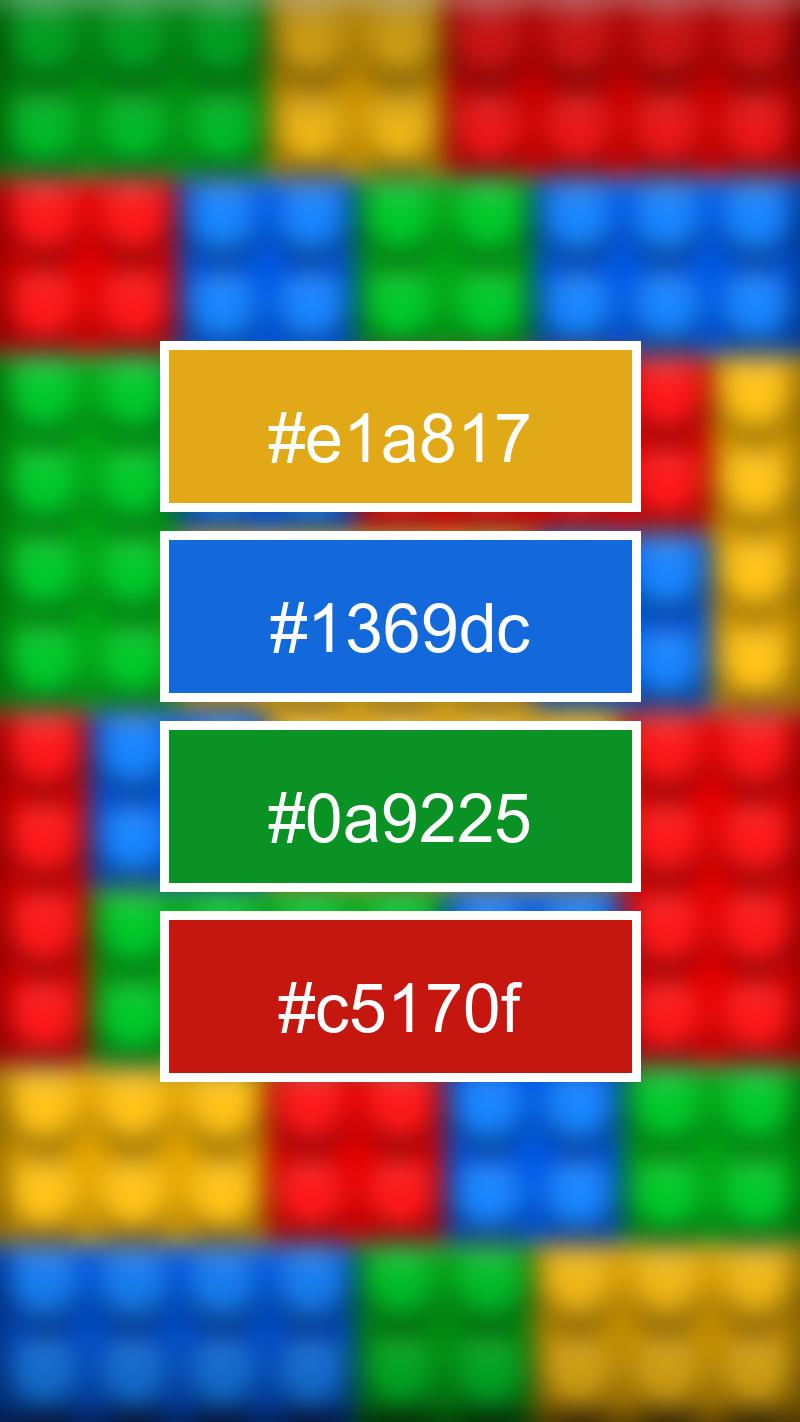
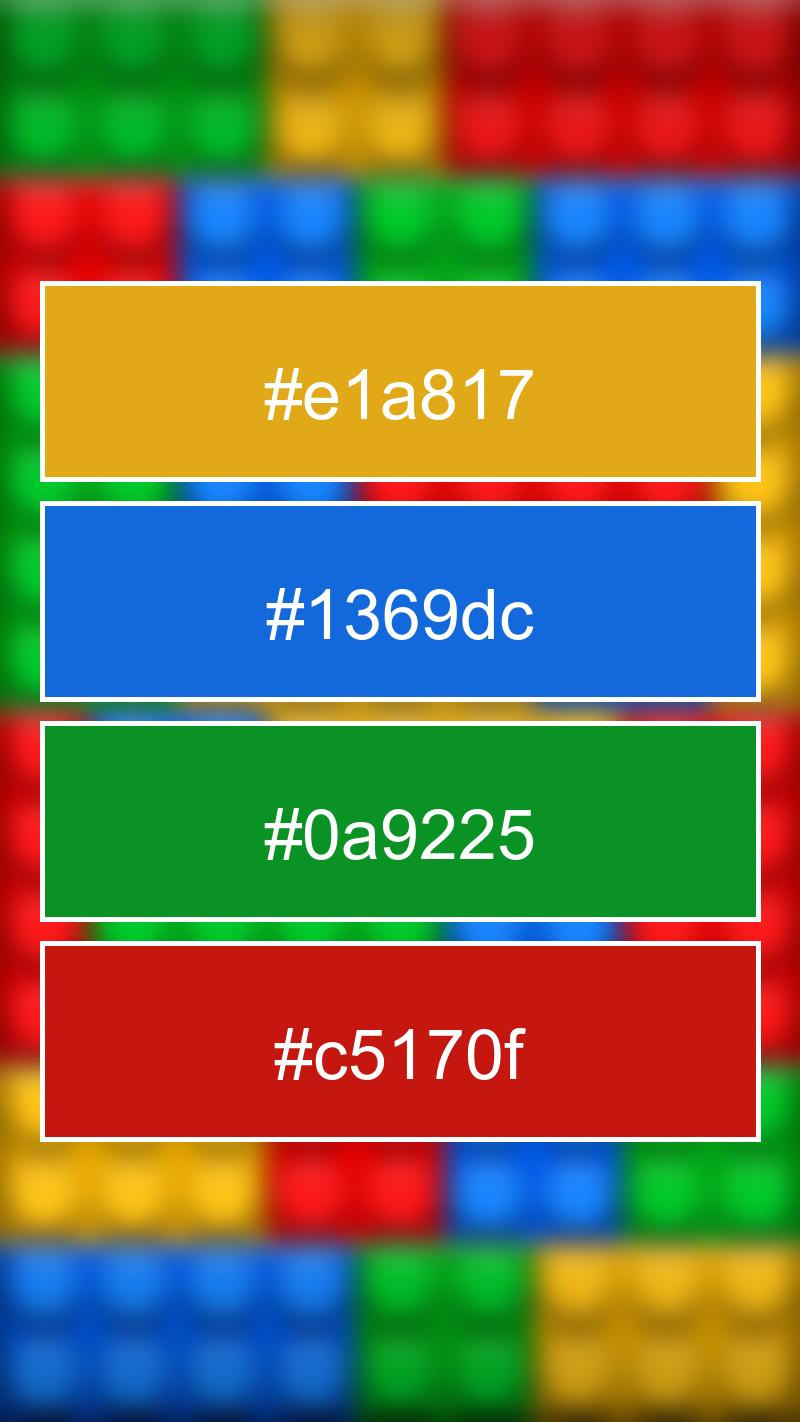
se modifican las dimensiones del recuadro de la paleta que se plasma en la imagen

diff --git a/analizador_paleta.py b/analizador_paleta.py
@@ -160,29 +160,37 @@ class AnalizadorPaleta:
 
         num_colores = len(self.colores_dominantes)
 
-        # Definir tamaño del recuadro de color según el ancho de la imagen.
-        ancho_cuadro = int(ancho_original * 0.6)
-        espacio_entre = 20
-        caja_min = 120
-        caja_max = 360
-        caja_propuesta = int(alto_original * 0.12)
-        alto_cuadro = max(caja_min, min(caja_max, caja_propuesta))
+        # Calcular las dimensiones de forma más proporcional.
+        margen = max(40, min(80, ancho_original // 20))
+        ancho_disponible = ancho_original - (margen * 2)
+        alto_disponible = alto_original - (margen * 2)
+
+        # Calcular tamaño de cada recuadro de forma flexible.
+        alto_cuadro = max(60, min(200, alto_disponible // (num_colores + 1)))
+        ancho_cuadro = ancho_disponible
+        espacio_entre = max(10, alto_cuadro // 10)
 
         total_altura = num_colores * alto_cuadro + (num_colores - 1) * espacio_entre
+
+        # Si no cabe, reducir tamaño de cada cuadro.
+        if total_altura > alto_disponible:
+            alto_cuadro = (alto_disponible - (num_colores - 1) * espacio_entre) // num_colores
+            total_altura = num_colores * alto_cuadro + (num_colores - 1) * espacio_entre
 
         paleta = original.copy().filter(ImageFilter.GaussianBlur(radius=12))
         draw = ImageDraw.Draw(paleta)
 
         try:
-            font_size = max(28, int(alto_cuadro * 0.4))
+            font_size = max(16, int(alto_cuadro * 0.35))
             font_grande = ImageFont.truetype("arial.ttf", font_size)
         except IOError:
             font_grande = ImageFont.load_default()
 
-        # Centrar los recuadros de color en la imagen.
+        # Centrar verticalmente los recuadros.
         top_start = (alto_original - total_altura) // 2
-        left = (ancho_original - ancho_cuadro) // 2
-        border_width = max(8, int(ancho_cuadro * 0.02))
+        left = margen
+
+        border_width = max(3, alto_cuadro // 40)
 
         for i, color in enumerate(self.colores_dominantes):
             y0 = top_start + i * (alto_cuadro + espacio_entre)
@@ -190,6 +198,7 @@ class AnalizadorPaleta:
             x0 = left
             x1 = left + ancho_cuadro
 
+            # Dibujar recuadro del color con borde visible.
             draw.rectangle([x0, y0, x1, y1], fill=color, outline="white", width=border_width)
 
             color_obj = Color(color)
@@ -199,11 +208,11 @@ class AnalizadorPaleta:
             text_fill = "black" if brillo > 180 else "white"
 
             try:
-                texto_ancho, texto_alto = font_grande.getsize(hex_color)
-            except AttributeError:
                 bbox = draw.textbbox((0, 0), hex_color, font=font_grande)
                 texto_ancho = bbox[2] - bbox[0]
                 texto_alto = bbox[3] - bbox[1]
+            except Exception:
+                texto_ancho, texto_alto = 50, 20
 
             text_x = x0 + ((x1 - x0) - texto_ancho) / 2
             text_y = y0 + ((y1 - y0) - texto_alto) / 2

diff --git a/paleta_app.py b/paleta_app.py
@@ -102,9 +102,17 @@ class PaletaApp:
         generador = GeneradorPaletas(self.colores)
         self.paletas = generador.generar_paletas()
 
+        # Obtener dimensiones de la imagen original para limitar el tamaño de la paleta.
+        img_original = Image.open(self.image_path)
+        ancho_max = img_original.width if img_original.width > 400 else 800
+
         for nombre, lista_colores in self.paletas.items():
-            ancho = 150 * len(lista_colores["colores"])
+            num_colores = len(lista_colores["colores"])
+            # Calcular el ancho de cada color de forma que la paleta no exceda el ancho máximo.
+            ancho_por_color = max(80, min(150, ancho_max // num_colores))
+            ancho = ancho_por_color * num_colores
             alto = 280
+
             paleta = Image.new("RGB", (ancho, alto), "white")
             draw = ImageDraw.Draw(paleta)
 
@@ -118,8 +126,8 @@ class PaletaApp:
             draw.text((10, 10), nombre, fill="black", font=font_grande)
 
             for i, color in enumerate(lista_colores["colores"]):
-                x0 = i * 150
-                x1 = x0 + 150
+                x0 = i * ancho_por_color
+                x1 = x0 + ancho_por_color
                 draw.rectangle([x0 + 10, 50, x1 - 10, 160], fill=color)
 
                 color_obj = Color(color)
